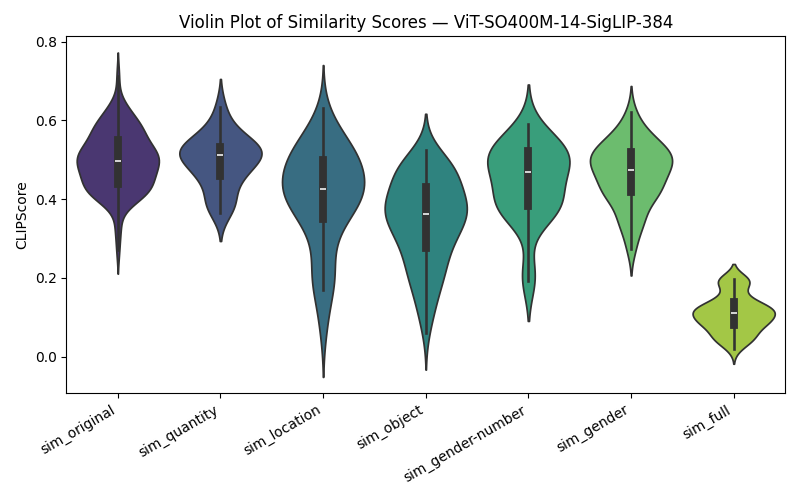
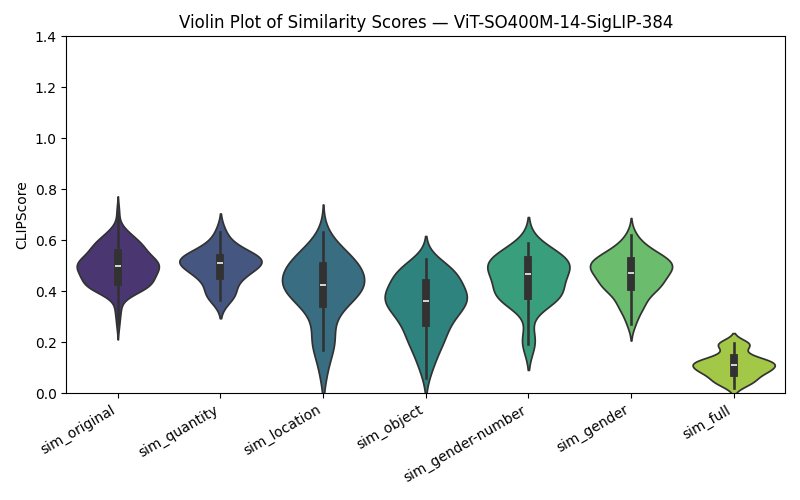
Updated incorrect caption creator with better prompts, standardized y-axis scaling for analysis violin and depth plots

diff --git a/inc_creator.py b/inc_creator.py
@@ -7,42 +7,42 @@ import time
 
 load_dotenv()
 
-openai.api_key = os.getenv('OPENAI_API_KEY')
+# openai.api_key = os.getenv('OPENAI_API_KEY')
 
 CATEGORIES = ["quantity","location","object","gender-number","gender","full"]
 
 def make_caption_incorrect(caption, category):
     prompt = ""
     if category == CATEGORIES[0]:
-        prompt = f"""Given this caption: {caption}
-        Alter the caption by changing the quantity of the subject of the sentence.
-        For example, for the sentence "Three women are having a picnic at the park.",\
-        the sentence might change to "Five women are having a picnic at the park." """
+        prompt = f"""Given this caption: "{caption}"
+Alter the caption by changing the quantity of the subject of the sentence. Only output the altered caption and nothing else.
+For example, for the sentence "Three women are having a picnic at the park.", \
+the sentence might change to "Five women are having a picnic at the park." """
     elif category == CATEGORIES[1]:
-        prompt = f"""Given this caption: {caption}
-        Alter the caption by changing the location of the sentence.
-        For example, for the sentence "Three women are having a picnic at the park.",\
-        the sentence might change to "Three women are having a picnic at the house." """
+        prompt = f"""Given this caption: "{caption}"
+Alter the caption by changing the location of the sentence. Only output the altered caption and nothing else.
+For example, for the sentence "Three women are having a picnic at the park.", \
+the sentence might change to "Three women are having a picnic at the house." """
     elif category == CATEGORIES[2]:
-        prompt = f"""Given this caption: {caption}
-        Alter the caption by changing the object of the sentence.
-        For example, for the sentence "Three women are having a picnic at the park.",\
-        the sentence might change to "Three women are having a basketball game at the park." """
+        prompt = f"""Given this caption: "{caption}"
+Alter the caption by changing the object of the sentence. Only output the altered caption and nothing else.
+For example, for the sentence "Three women are having a picnic at the park.", \
+the sentence might change to "Three women are having a basketball game at the park." """
     elif category == CATEGORIES[3]:
-        prompt = f"""Given this caption: {caption}
-        Alter the caption by changing the gender and quantity of the subject of the sentence.
-        For example, for the sentence "Three women are having a picnic at the park.",\
-        the sentence might change to "Four men are having a picnic at the park." """
+        prompt = f"""Given this caption: "{caption}"
+Alter the caption by changing the gender and quantity of the subject of the sentence. Only output the altered caption and nothing else.
+For example, for the sentence "Three women are having a picnic at the park.", \
+the sentence might change to "Four men are having a picnic at the park." """
     elif category == CATEGORIES[4]:
-        prompt = f"""Given this caption: {caption}
-        Alter the caption by changing the gender of the subject of the sentence.
-        For example, for the sentence "Three women are having a picnic at the park.",\
-        the sentence might change to "Three men are having a picnic at the park." """
+        prompt = f"""Given this caption: "{caption}"
+Alter the caption by changing the gender of the subject of the sentence. Only output the altered caption and nothing else.
+For example, for the sentence "Three women are having a picnic at the park.", \
+the sentence might change to "Three men are having a picnic at the park." """
     elif category == CATEGORIES[5]:
-        prompt = f"""Given this caption: {caption}
-        Alter the caption by changing the gender and quantity of the subject, the location, and the object of the sentence.
-        For example, for the sentence "Three women are having a picnic at the park.",\
-        the sentence might change to "Four men are having a basketball game at the house." """
+        prompt = f"""Given this caption: "{caption}"
+Alter the caption by changing the gender and quantity of the subject, the location, and the object of the sentence. Only output the altered caption and nothing else.
+For example, for the sentence "Three women are having a picnic at the park.", \
+the sentence might change to "Four men are having a basketball game at the house." """
     else:
         print('Invalid Category: "' + category + '"')
         return False
@@ -67,12 +67,10 @@ inc = df[["imageURL","imageID","original"]]
 # Iterate over each row in the DataFrame with a delay
 for index, row in inc.iterrows():
     for category in CATEGORIES:
-        if df.loc[index, ("und_" + category)] == "NA":
+        if type(df.loc[index, ("und_" + category)]) is float:
             inc.loc[index, ("inc_" + category)] = "NA"
         else:
-            inc.loc[index, ("inc_" + category)] = make_caption_incorrect(row['original'], category)
-            print(inc.loc[index, ("inc_" + category)])
+            inc.loc[index, ("inc_" + category)] = make_caption_incorrect(inc.loc[index, ("original")], category)
             time.sleep(1)  # Introduce a delay of 1 second
-    break
 
 inc.to_csv('INC_100_samples.csv', index=False)

diff --git a/ablations/analyze_depth.py b/ablations/analyze_depth.py
@@ -71,6 +71,7 @@ def generate_depth_lineplots(model_family, results_dir):
     plt.title(f"Average Similarity Score by Caption for {model_family}")
     plt.xlabel("Caption Type")
     plt.ylabel("Average Similarity Score")
+    plt.ylim(0, 1.1)
     plt.legend(title="Model")
     plt.grid(True)
     plt.tight_layout()

diff --git a/ablations/generate_violin_plots.py b/ablations/generate_violin_plots.py
@@ -63,6 +63,7 @@ def generate_violin_plots(model_name, results_dir):
         plt.title(f'Violin Plot of Similarity Scores — {name}')
         plt.ylabel('CLIPScore')
         plt.xlabel('')
+        plt.ylim(0, 1.4)
         plt.xticks(rotation=30, ha='right')
 
         plt.tight_layout()
